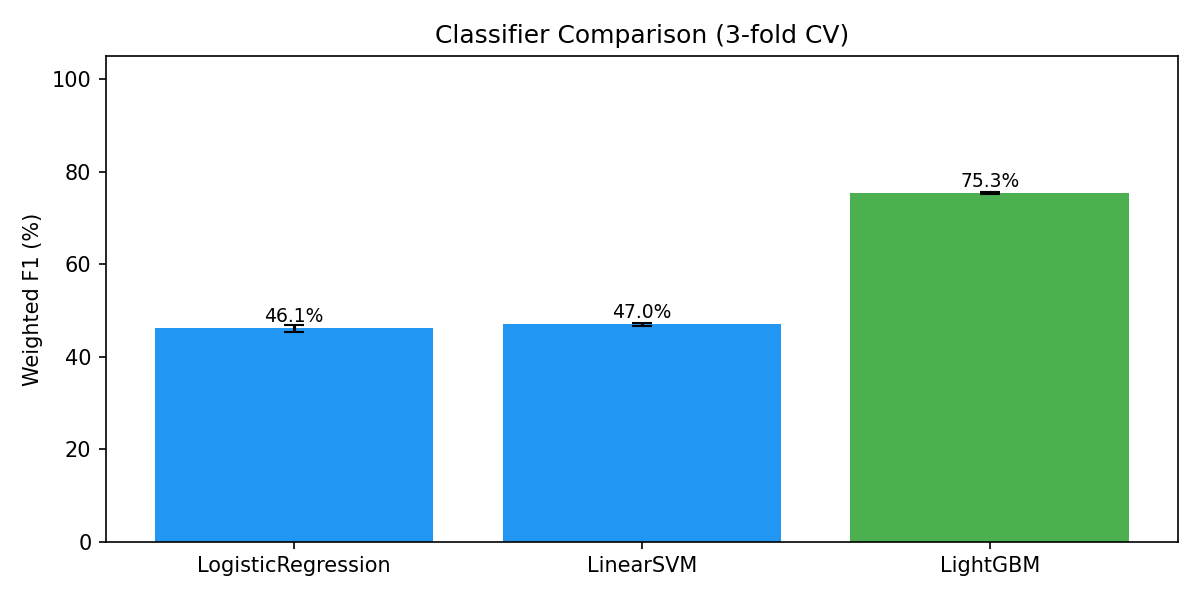
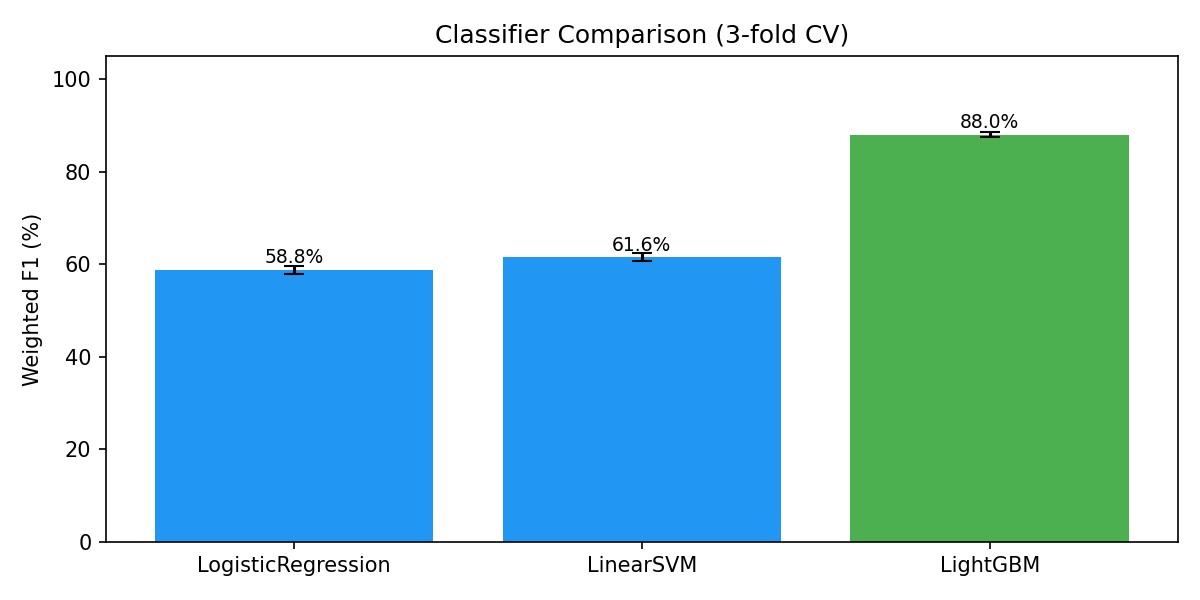
Initial commit —Add Automatic Alert to Manager via Email)

Changed region(s): [[0.4008, 0.39, 0.6783, 0.54], [0.7092, 0.18, 0.9558, 0.33], [0.1233, 0.42, 0.37, 0.57]]

diff --git a/frontend/src/pages/CreateTicketPage.tsx b/frontend/src/pages/CreateTicketPage.tsx
@@ -261,14 +261,9 @@ export default function CreateTicketPage() {
                     No duplicate ticket was created. You have been added as a linked requester on Ticket #{blockData.ticket.id} (Total linked users: {blockData.ticket.requester_count}).
                   </Typography>
                 </Alert>
-
                 <Paper sx={{ p: 2, bgcolor: theme.palette.mode === 'light' ? '#FEF3C7' : '#2A1B14', border: '1px solid #FDE68A', borderRadius: 2 }}>
-                  <Typography variant="caption" fontWeight={700} style={{ color: '#B45309' }}>
-                    SHARED MASTER TICKET #{blockData.ticket.id}:
-                  </Typography>
-                  <Typography variant="body2" fontWeight={700} style={{ marginTop: 4 }}>
-                    {blockData.ticket.title}
-                  </Typography>
+                  <Typography variant="caption" fontWeight={700} style={{ color: '#B45309' }}>SHARED MASTER TICKET #{blockData.ticket.id}:</Typography>
+                  <Typography variant="body2" fontWeight={700} style={{ marginTop: 4 }}>{blockData.ticket.title}</Typography>
                   <Typography variant="caption" style={{ color: theme.palette.text.secondary, display: 'block', marginTop: 4 }}>
                     Status: {blockData.ticket.status.toUpperCase()} | Assigned Team: {blockData.ticket.assigned_team}
                   </Typography>
@@ -276,38 +271,49 @@ export default function CreateTicketPage() {
               </Box>
             ) : (
               <Box>
-                <Alert severity="success" icon={<CheckCircleIcon fontSize="small" />} sx={{ mb: 2 }}>
-                  <Typography variant="subtitle2" fontWeight={800}>
-                    {blockData.message}
-                  </Typography>
-                  <Typography variant="caption" style={{ display: 'block', marginTop: 4 }}>
-                    No duplicate ticket was created. A verified fix for this exact issue is available below:
-                  </Typography>
-                </Alert>
+                {/* Resolved ticket — prominent banner */}
+                <Box sx={{ bgcolor: '#ECFDF5', border: '2px solid #10B981', borderRadius: 2, p: 2, mb: 2, display: 'flex', alignItems: 'flex-start', gap: 1.5 }}>
+                  <CheckCircleIcon style={{ color: '#10B981', fontSize: 32, marginTop: 2 }} />
+                  <Box>
+                    <Typography variant="subtitle1" fontWeight={800} style={{ color: '#065F46' }}>
+                      This issue has already been resolved!
+                    </Typography>
+                    <Typography variant="body2" style={{ color: '#047857', marginTop: 2 }}>
+                      Ticket #{blockData.ticket.id} — <strong>{blockData.ticket.title}</strong>
+                    </Typography>
+                    <Typography variant="caption" style={{ color: '#6B7280', display: 'block', marginTop: 2 }}>
+                      No new ticket was created. The verified fix is shown below.
+                    </Typography>
+                  </Box>
+                </Box>
 
-                <Paper sx={{ p: 2, bgcolor: '#ECFDF5', border: '1px solid #A7F3D0', borderRadius: 2 }}>
-                  <Typography variant="caption" fontWeight={700} style={{ color: '#047857', display: 'block', marginBottom: 4 }}>
-                    VERIFIED RESOLUTION SUMMARY:
+                <Paper sx={{ p: 2.5, bgcolor: theme.palette.mode === 'light' ? '#F0FDF4' : '#052e16', border: '1px solid #A7F3D0', borderRadius: 2 }}>
+                  <Typography variant="overline" fontWeight={700} style={{ color: '#047857', letterSpacing: 1 }}>
+                    Verified Resolution
                   </Typography>
-                  <Typography variant="body2" fontWeight={600} style={{ color: '#047857', whiteSpace: 'pre-line' }}>
-                    {blockData.ticket.resolution_summary}
+                  <Typography variant="body1" style={{ color: theme.palette.mode === 'light' ? '#1E293B' : '#d1fae5', whiteSpace: 'pre-line', marginTop: 8, lineHeight: 1.7 }}>
+                    {blockData.ticket.resolution_summary || 'Resolution details are available from the support team.'}
                   </Typography>
 
                   {blockData.ticket.resolution_detail && (
-                    <Accordion sx={{ bgcolor: 'transparent', boxShadow: 'none', mt: 1 }}>
+                    <Accordion sx={{ bgcolor: 'transparent', boxShadow: 'none', mt: 1.5, border: '1px solid #A7F3D0', borderRadius: '8px !important' }}>
                       <AccordionSummary expandIcon={<ExpandMoreIcon fontSize="small" />}>
                         <Typography variant="caption" style={{ color: '#2563EB', fontWeight: 700 }}>
-                          View Technical Audit & Fix Steps
+                          View Technical Steps & Fix Details
                         </Typography>
                       </AccordionSummary>
                       <AccordionDetails>
-                        <Typography variant="caption" style={{ fontFamily: 'monospace', whiteSpace: 'pre-line', color: '#1E293B' }}>
+                        <Typography variant="caption" style={{ fontFamily: 'monospace', whiteSpace: 'pre-line', color: theme.palette.mode === 'light' ? '#1E293B' : '#d1fae5', lineHeight: 1.8 }}>
                           {blockData.ticket.resolution_detail}
                         </Typography>
                       </AccordionDetails>
                     </Accordion>
                   )}
                 </Paper>
+
+                <Typography variant="caption" style={{ color: '#9CA3AF', display: 'block', marginTop: 8, textAlign: 'center' }}>
+                  Resolved by: {blockData.ticket.assigned_team || 'Support Team'}
+                </Typography>
               </Box>
             )}
           </DialogContent>

diff --git a/backend/app/sla/service.py b/backend/app/sla/service.py
@@ -1,6 +1,39 @@
+import os
+import smtplib
+from email.mime.multipart import MIMEMultipart
+from email.mime.text import MIMEText
 from datetime import datetime, timedelta
+from dotenv import load_dotenv
 from app.database.database import SessionLocal
 from app.models import Ticket, Team, SLAEscalationLog, User
+
+load_dotenv()
+
+MANAGER_EMAIL   = os.getenv("ESCALATION_MANAGER_EMAIL", "visakavisaka2705@gmail.com")
+SMTP_SENDER     = os.getenv("SMTP_SENDER_EMAIL", "")
+SMTP_PASSWORD   = os.getenv("SMTP_APP_PASSWORD", "")
+SMTP_HOST       = "smtp.gmail.com"
+SMTP_PORT       = 587
+
+def _send_escalation_email(subject: str, html_body: str):
+    """Send escalation email via Gmail SMTP. Silently skips if credentials not configured."""
+    print(f"[EMAIL DEBUG] SMTP_SENDER='{SMTP_SENDER}' PASSWORD_SET={'yes' if SMTP_PASSWORD else 'NO'}")
+    if not SMTP_SENDER or not SMTP_PASSWORD:
+        print(f"[EMAIL SKIP] SMTP credentials not set. Subject: {subject}")
+        return
+    try:
+        msg = MIMEMultipart("alternative")
+        msg["Subject"] = subject
+        msg["From"]    = SMTP_SENDER
+        msg["To"]      = MANAGER_EMAIL
+        msg.attach(MIMEText(html_body, "html"))
+        with smtplib.SMTP(SMTP_HOST, SMTP_PORT, timeout=10) as server:
+            server.starttls()
+            server.login(SMTP_SENDER, SMTP_PASSWORD)
+            server.sendmail(SMTP_SENDER, MANAGER_EMAIL, msg.as_string())
+        print(f"[EMAIL SENT] Escalation email sent to {MANAGER_EMAIL}: {subject}")
+    except Exception as e:
+        print(f"[EMAIL ERROR] Failed to send escalation email: {e}")
 
 DEFAULT_SLA_HOURS = {
     "Critical": 6.0,
@@ -95,6 +128,25 @@ def audit_and_trigger_sla_escalations():
                 escalations_triggered += 1
                 print(f"[SLA ESCALATION] Ticket #{ticket.id} ('{ticket.title}') BREACHED! Overdue by {overdue_mins:.1f} mins. Manager notified.")
 
+                _send_escalation_email(
+                    subject=f"[SLA BREACHED] Ticket #{ticket.id} — {ticket.title}",
+                    html_body=f"""
+                    <h2 style="color:#dc2626">SLA Breach Alert</h2>
+                    <p>A ticket has <strong>breached its SLA deadline</strong> and requires immediate attention.</p>
+                    <table style="border-collapse:collapse;width:100%">
+                      <tr><td style="padding:6px;font-weight:bold">Ticket ID</td><td style="padding:6px">#{ticket.id}</td></tr>
+                      <tr style="background:#f9fafb"><td style="padding:6px;font-weight:bold">Title</td><td style="padding:6px">{ticket.title}</td></tr>
+                      <tr><td style="padding:6px;font-weight:bold">Priority</td><td style="padding:6px">{ticket.priority}</td></tr>
+                      <tr style="background:#f9fafb"><td style="padding:6px;font-weight:bold">Assigned Team</td><td style="padding:6px">{ticket.assigned_team or 'Unassigned'}</td></tr>
+                      <tr><td style="padding:6px;font-weight:bold">Requester</td><td style="padding:6px">{ticket.requester_name or 'Unknown'}</td></tr>
+                      <tr style="background:#f9fafb"><td style="padding:6px;font-weight:bold">SLA Due At</td><td style="padding:6px">{ticket.sla_due_at}</td></tr>
+                      <tr><td style="padding:6px;font-weight:bold">Overdue By</td><td style="padding:6px;color:#dc2626"><strong>{overdue_mins:.1f} minutes</strong></td></tr>
+                      <tr style="background:#f9fafb"><td style="padding:6px;font-weight:bold">Manager</td><td style="padding:6px">{mgr_name}</td></tr>
+                    </table>
+                    <p style="margin-top:16px;color:#6b7280;font-size:12px">Smart Help Desk — Auto Escalation System</p>
+                    """
+                )
+
         # 2. SLA At-Risk Warning Check (80% time elapsed)
         elif elapsed_pct >= 0.80 and not ticket.escalated_to_manager:
             ticket.escalated_to_manager = True
@@ -117,6 +169,26 @@ def audit_and_trigger_sla_escalations():
             db.add(log)
             escalations_triggered += 1
             print(f"[SLA WARNING] Ticket #{ticket.id} ('{ticket.title}') IS AT RISK (80% SLA elapsed). Manager warned.")
+
+            remaining_mins = (ticket.sla_due_at - now).total_seconds() / 60.0
+            _send_escalation_email(
+                subject=f"[SLA AT RISK] Ticket #{ticket.id} — {ticket.title}",
+                html_body=f"""
+                <h2 style="color:#d97706">SLA At-Risk Warning</h2>
+                <p>A ticket has consumed <strong>80% of its SLA window</strong> and is at risk of breaching.</p>
+                <table style="border-collapse:collapse;width:100%">
+                  <tr><td style="padding:6px;font-weight:bold">Ticket ID</td><td style="padding:6px">#{ticket.id}</td></tr>
+                  <tr style="background:#f9fafb"><td style="padding:6px;font-weight:bold">Title</td><td style="padding:6px">{ticket.title}</td></tr>
+                  <tr><td style="padding:6px;font-weight:bold">Priority</td><td style="padding:6px">{ticket.priority}</td></tr>
+                  <tr style="background:#f9fafb"><td style="padding:6px;font-weight:bold">Assigned Team</td><td style="padding:6px">{ticket.assigned_team or 'Unassigned'}</td></tr>
+                  <tr><td style="padding:6px;font-weight:bold">Requester</td><td style="padding:6px">{ticket.requester_name or 'Unknown'}</td></tr>
+                  <tr style="background:#f9fafb"><td style="padding:6px;font-weight:bold">SLA Due At</td><td style="padding:6px">{ticket.sla_due_at}</td></tr>
+                  <tr><td style="padding:6px;font-weight:bold">Time Remaining</td><td style="padding:6px;color:#d97706"><strong>{remaining_mins:.1f} minutes</strong></td></tr>
+                  <tr style="background:#f9fafb"><td style="padding:6px;font-weight:bold">Manager</td><td style="padding:6px">{mgr_name}</td></tr>
+                </table>
+                <p style="margin-top:16px;color:#6b7280;font-size:12px">Smart Help Desk — Auto Escalation System</p>
+                """
+            )
 
     if escalations_triggered > 0:
         db.commit()

diff --git a/backend/test_semantic.py b/backend/test_semantic.py
@@ -1,0 +1,52 @@
+"""
+test_semantic.py
+Proves the duplicate detection works on MEANING, not just keywords.
+python test_semantic.py
+"""
+from app.core.embeddings import get_shared_embedder
+from app.duplicate.service import cosine_similarity, compute_lexical_similarity
+
+embedder = get_shared_embedder()
+
+tests = [
+    (
+        "Same issue, same words (Alice vs Bob similar)",
+        "Outlook keeps asking for password repeatedly. Microsoft account password prompt every few minutes on Windows 11.",
+        "Outlook password prompt keeps appearing. Constantly asking to re-enter password on Windows laptop Office 365.",
+    ),
+    (
+        "Same issue, COMPLETELY different words (true semantic test)",
+        "Outlook keeps asking for password repeatedly. Microsoft account password prompt every few minutes on Windows 11.",
+        "Email application wont stop requesting login credentials. Keeps popping up asking to authenticate again and again.",
+    ),
+    (
+        "Different issue entirely (should NOT match)",
+        "Outlook keeps asking for password repeatedly. Microsoft account password prompt every few minutes on Windows 11.",
+        "The office printer is not connecting to the network. Cannot print any documents from my laptop.",
+    ),
+    (
+        "VPN issue same meaning different words",
+        "Cannot connect to corporate VPN from home. Cisco AnyConnect shows certificate verification failed.",
+        "Remote access not working. Getting SSL error when trying to connect to company network through VPN client.",
+    ),
+]
+
+THRESHOLD = 0.75
+LEX_THRESHOLD = 0.30
+
+print("=" * 65)
+print("SEMANTIC DUPLICATE DETECTION — MEANING-BASED TEST")
+print("=" * 65)
+
+for label, text1, text2 in tests:
+    v1 = embedder.encode([text1])[0]
+    v2 = embedder.encode([text2])[0]
+    sem = cosine_similarity(v1, v2)
+    lex = compute_lexical_similarity(text1, text2)
+    is_match = (sem >= THRESHOLD and lex >= LEX_THRESHOLD) or sem >= 0.85
+    print(f"\n{label}")
+    print(f"  Semantic score : {sem:.4f}  (need >= {THRESHOLD})")
+    print(f"  Lexical score  : {lex:.4f}  (need >= {LEX_THRESHOLD})")
+    print(f"  Result         : {'DUPLICATE DETECTED' if is_match else 'NOT a duplicate'}")
+
+print("\n" + "=" * 65)

diff --git a/backend/run_sla_test.py b/backend/run_sla_test.py
@@ -1,0 +1,63 @@
+"""
+run_sla_test.py
+Run once to backdate an open ticket's SLA due date to the past,
+then hit GET /ticket/all to trigger the audit and send the escalation email.
+
+Run from: smart-helpdesk/backend/
+  python run_sla_test.py
+"""
+from app.database.database import SessionLocal
+from app.models import Ticket, Team
+from datetime import datetime, timedelta
+
+from app.models import Team
+from app.auth.hashing import hash_password
+
+db = SessionLocal()
+
+# Try to find any existing open ticket first
+ticket = db.query(Ticket).filter(
+    Ticket.status.in_(["open", "in_progress"]),
+    Ticket.is_sla_breached == False
+).order_by(Ticket.id.desc()).first()
+
+# None found — create one on the spot
+if not ticket:
+    print("No open ticket found. Creating a test ticket...")
+    ticket = Ticket(
+        title="VPN Certificate Error — SLA Test Ticket",
+        description="Cannot connect to corporate VPN. Cisco AnyConnect shows server certificate verification failed. Need urgent access to internal systems.",
+        category="Network",
+        priority="High",
+        status="open",
+        assigned_team="Network Team",
+        requester_name="Alice Employee",
+        requester_department="Finance",
+        created_at=datetime.now() - timedelta(hours=30),
+        sla_due_at=datetime.now() + timedelta(hours=1),  # will be overridden below
+        is_sla_breached=False,
+        escalated_to_manager=False,
+    )
+    db.add(ticket)
+    db.commit()
+    db.refresh(ticket)
+    print(f"  Created ticket #{ticket.id}")
+
+print(f"Using ticket #{ticket.id}: '{ticket.title}'")
+print(f"  Current SLA due: {ticket.sla_due_at}")
+
+ticket.sla_due_at           = datetime.now() - timedelta(minutes=45)
+ticket.is_sla_breached      = False
+ticket.escalated_to_manager = False
+
+db.commit()
+db.close()
+
+print(f"  Backdated SLA to 45 mins ago (overdue)")
+print()
+print("Now trigger the audit by visiting:")
+print("  http://localhost:8000/ticket/all")
+print()
+print("Watch the backend terminal for:")
+print("  [SLA ESCALATION] Ticket #X BREACHED!")
+print("  [EMAIL SENT] Escalation email sent to visakavisaka2705@gmail.com")

diff --git a/backend/test_email.py b/backend/test_email.py
@@ -1,0 +1,53 @@
+"""
+test_email.py - Run this to see the exact email error
+python test_email.py
+"""
+import smtplib
+from email.mime.multipart import MIMEMultipart
+from email.mime.text import MIMEText
+
+SENDER   = "727723euit275@skcet.ac.in"
+PASSWORD = "tjzc azya rdnf cnci"
+TO       = "visakavisaka2705@gmail.com"
+
+print(f"Sender  : {SENDER}")
+print(f"To      : {TO}")
+print()
+
+# Try Gmail SMTP (only works for @gmail.com accounts)
+print("Trying smtp.gmail.com port 587...")
+try:
+    with smtplib.SMTP("smtp.gmail.com", 587, timeout=10) as s:
+        s.starttls()
+        s.login(SENDER, PASSWORD)
+        print("  Gmail login SUCCESS")
+except Exception as e:
+    print(f"  Gmail FAILED: {e}")
+
+# Try Office365 SMTP (works for many college/org accounts)
+print("Trying smtp.office365.com port 587...")
+try:
+    with smtplib.SMTP("smtp.office365.com", 587, timeout=10) as s:
+        s.starttls()
+        s.login(SENDER, PASSWORD)
+        print("  Office365 login SUCCESS")
+except Exception as e:
+    print(f"  Office365 FAILED: {e}")
+
+# Try generic SMTP SSL port 465
+print("Trying smtp.gmail.com port 465 (SSL)...")
+try:
+    with smtplib.SMTP_SSL("smtp.gmail.com", 465, timeout=10) as s:
+        s.login(SENDER, PASSWORD)
+        print("  Gmail SSL login SUCCESS")
+except Exception as e:
+    print(f"  Gmail SSL FAILED: {e}")
+
+print()
+print("If all failed, your college email likely blocks external SMTP.")
+print("Solution: use a personal Gmail account instead.")
+print("  1. Create/use a Gmail account")
+print("  2. Enable 2FA at myaccount.google.com")
+print("  3. Generate App Password at myaccount.google.com/apppasswords")
+print("  4. Update .env: SMTP_SENDER_EMAIL=yourgmail@gmail.com")
+print("                  SMTP_APP_PASSWORD=xxxx xxxx xxxx xxxx")

diff --git a/backend/app/main.py b/backend/app/main.py
@@ -1,6 +1,7 @@
 from fastapi import FastAPI, Response
 from fastapi.middleware.cors import CORSMiddleware
 from contextlib import asynccontextmanager
+from apscheduler.schedulers.background import BackgroundScheduler
 
 from app.database.database import engine, Base
 from app.auth.routes import router as auth_router
@@ -8,16 +9,26 @@ from app.tickets.routes import router as ticket_router
 from app.chatbot.routes import router as chatbot_router
 from app.agent.routes import router as agent_router
 from app.core.embeddings import get_shared_embedder
+from app.sla.service import audit_and_trigger_sla_escalations
+
+scheduler = BackgroundScheduler()
 
 @asynccontextmanager
 async def lifespan(app: FastAPI):
-    # Pre-load single shared SentenceTransformer model at FastAPI startup
     print("[STARTUP] Pre-loading shared embedding model...")
     try:
         get_shared_embedder()
     except Exception as e:
         print(f"[STARTUP WARN] Shared embedder pre-load notice: {e}")
+
+    # Run SLA audit every 5 minutes automatically
+    scheduler.add_job(audit_and_trigger_sla_escalations, "interval", minutes=5, id="sla_audit")
+    scheduler.start()
+    print("[STARTUP] SLA background scheduler started — runs every 5 minutes.")
+
     yield
+
+    scheduler.shutdown(wait=False)
     print("[SHUTDOWN] Application shutdown complete.")
 
 # Create database tables if they do not exist
